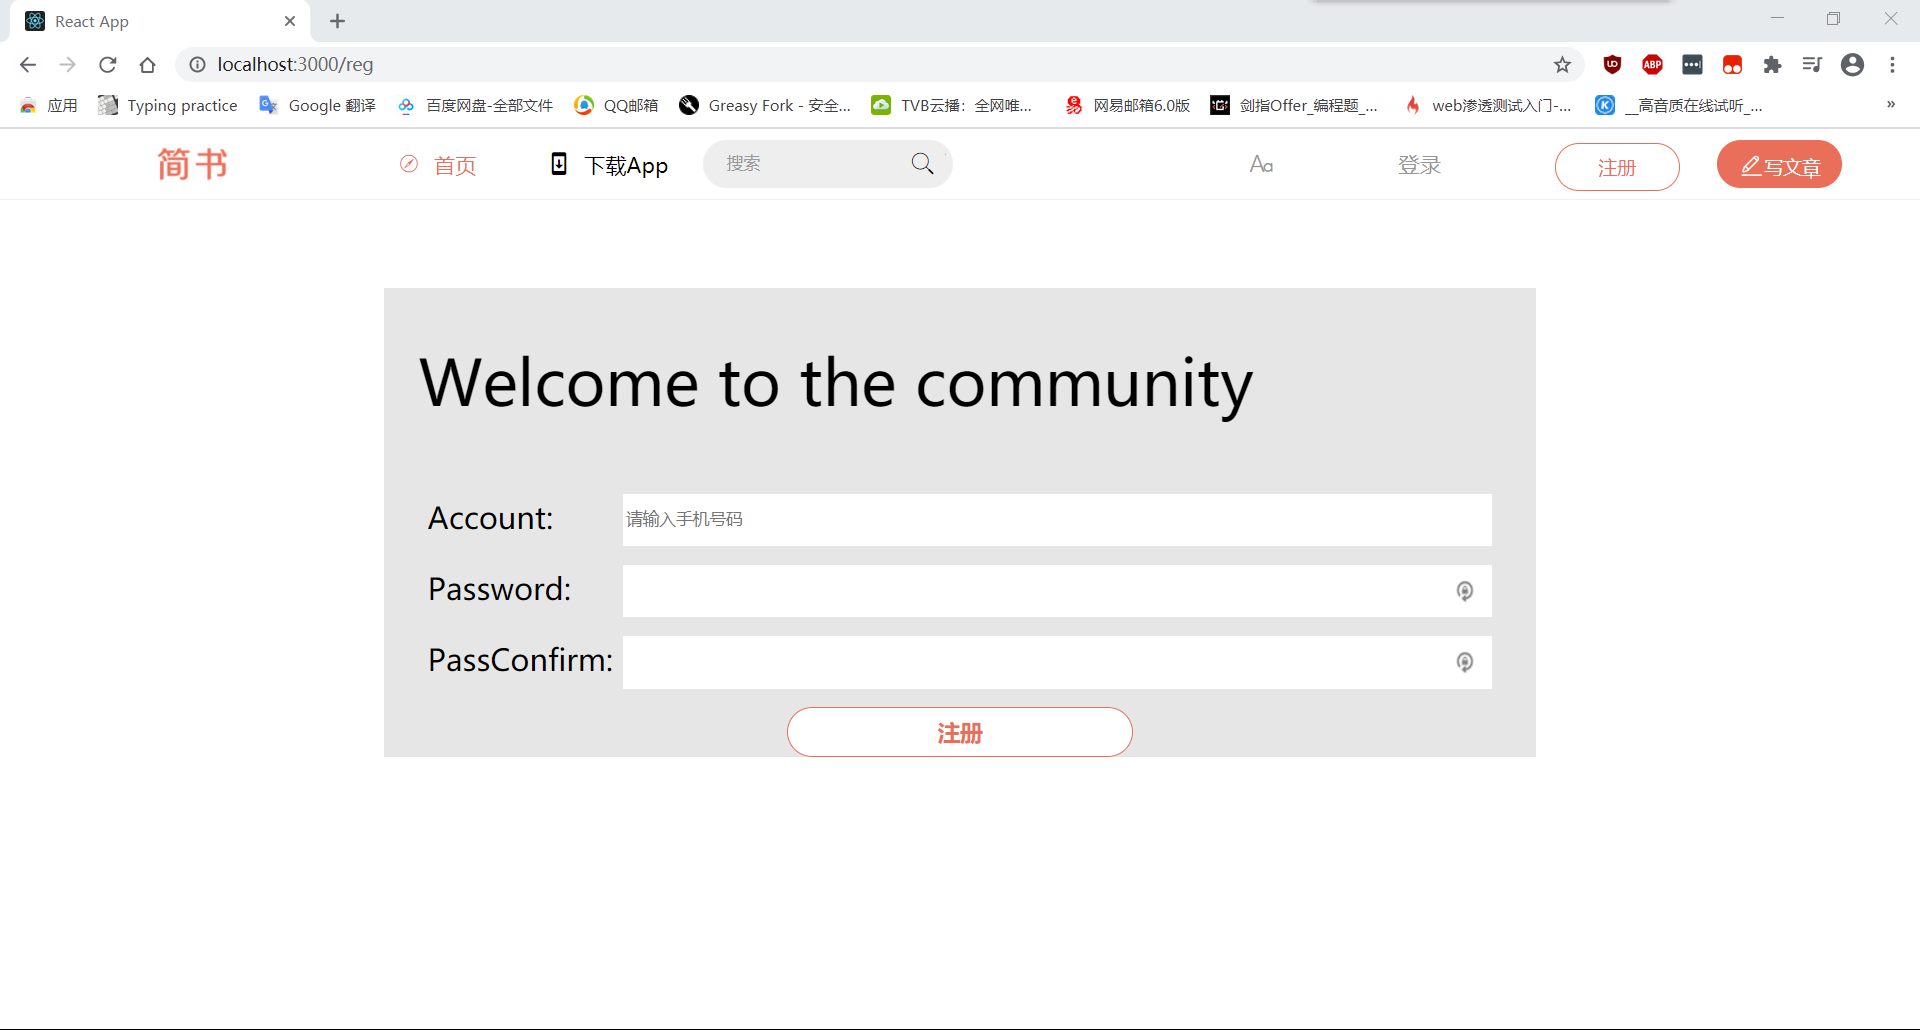
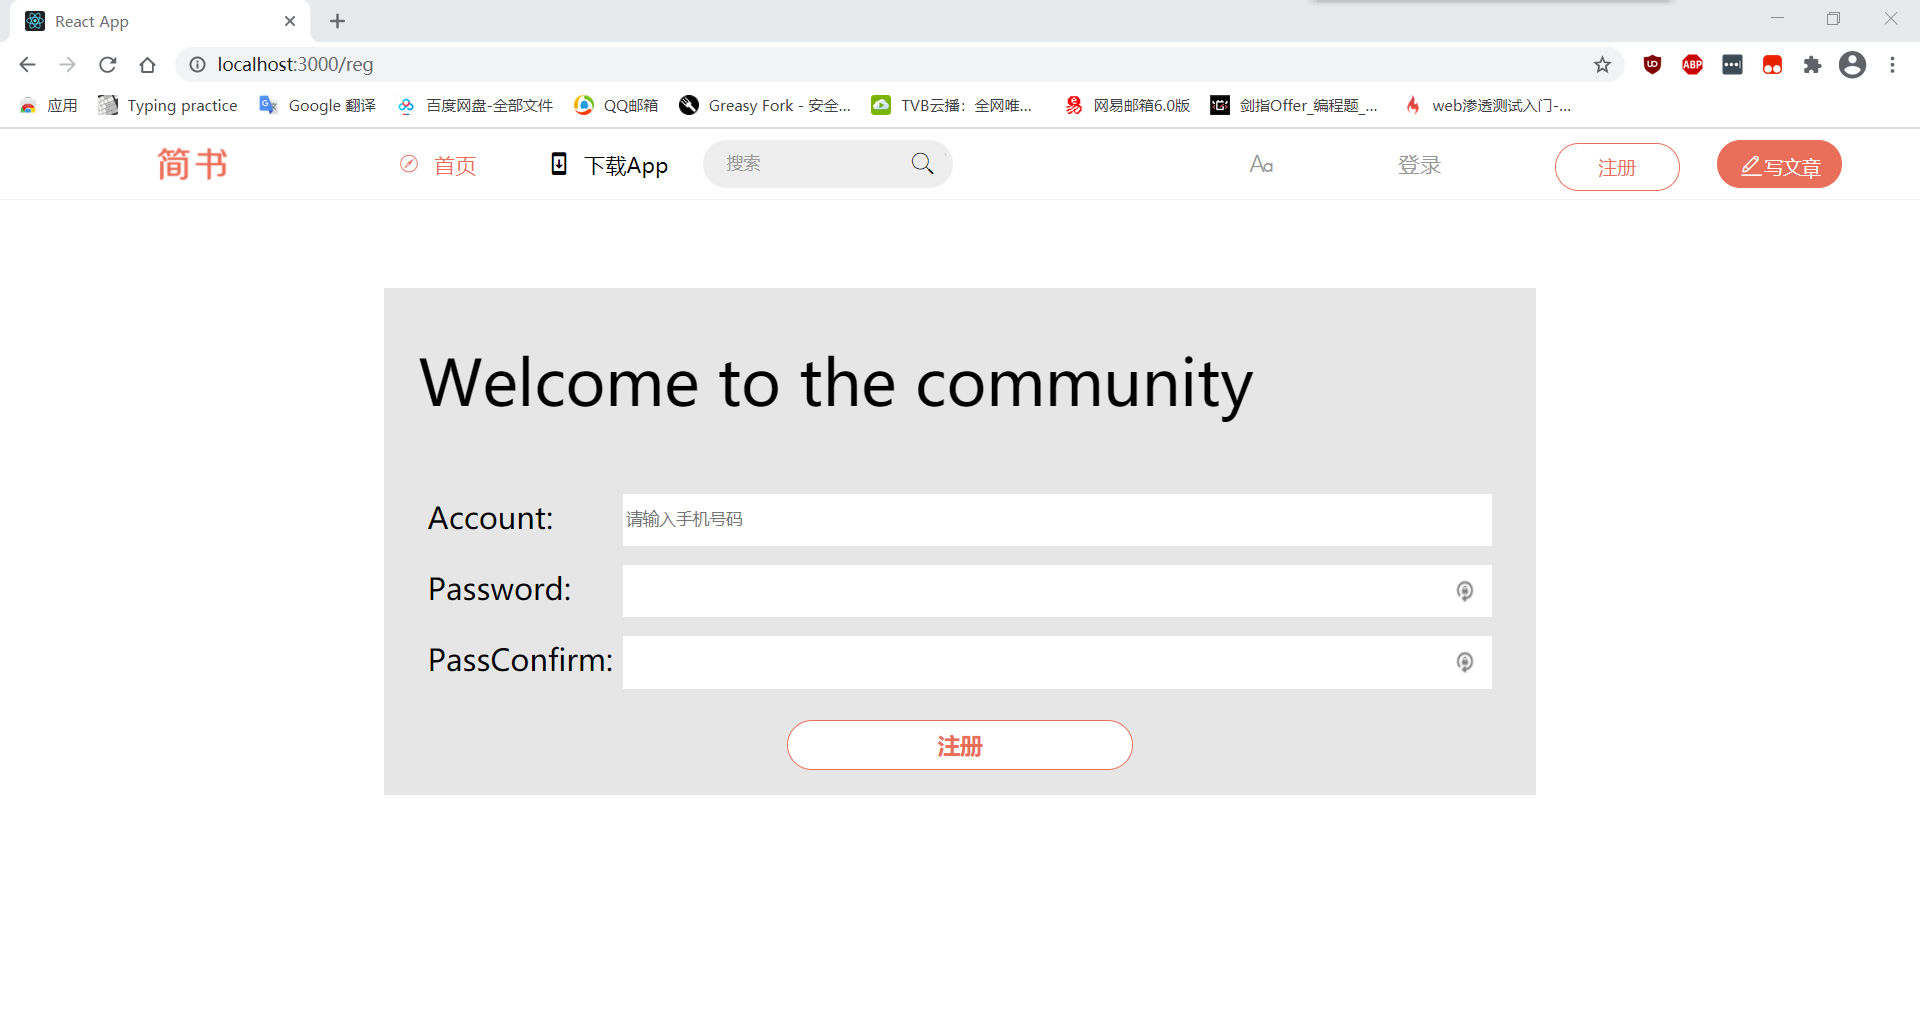
错误提示完善

Changed region(s): [[0.1875, 0.6835, 0.8125, 0.7767], [0.0, 0.9942, 1.0, 1.0], [0.8125, 0.0311, 0.9688, 0.1243]]

diff --git a/src/reg/Reg.jsx b/src/reg/Reg.jsx
@@ -7,12 +7,42 @@ import {
   RegLabel,
   RegInput,
   Button,
+  Tip,
 } from './style';
 
 class Reg extends React.Component {
+  constructor() {
+    super();
+    this.state = {
+      telFlag: true,
+      passFlag: true,
+      passConfirm: true,
+    };
+  }
+  blurHandler = () => {
+    if (this.tel.value.length !== 11) {
+      this.setState(() => ({
+        telFlag: false,
+      }));
+    }
+  };
+  passBlurHandler = () => {
+    if (this.password.value.length <= 6) {
+      this.setState(() => ({
+        passFlag: false,
+      }));
+    }
+  };
+  passConfirmBlurHandler = () => {
+    if (this.password.value !== this.passConfirm.value) {
+      this.setState(() => ({
+        passConfirm: false,
+      }));
+    }
+  };
   render() {
     const clickHandler = () => {
-      this.props.login();
+      console.log('reg');
     };
     return (
       <RegWrapper>
@@ -20,15 +50,46 @@ class Reg extends React.Component {
           <Title>Welcome to the community</Title>
           <FormItem>
             <RegLabel htmlFor="account">Account:</RegLabel>
-            <RegInput id="account" placeholder="请输入手机号码" />
+            <RegInput
+              id="account"
+              placeholder="请输入手机号码"
+              onBlur={this.blurHandler}
+              ref={(input) => {
+                this.tel = input;
+              }}
+              className={this.state.telFlag ? '' : 'error'}
+            />
+            <Tip className={!this.state.telFlag ? 'show' : 'hidden'}>
+              请输入正确的手机号码
+            </Tip>
           </FormItem>
           <FormItem>
             <RegLabel htmlFor="password">Password:</RegLabel>
-            <RegInput id="password" type="password" />
+            <RegInput
+              id="password"
+              type="password"
+              onBlur={this.passBlurHandler}
+              ref={(input) => {
+                this.password = input;
+              }}
+              className={this.state.passFlag ? '' : 'error'}
+            />
+            <Tip className={!this.state.passFlag ? 'show' : 'hidden'}>
+              密码长度不能少于6位
+            </Tip>
           </FormItem>
           <FormItem>
             <RegLabel htmlFor="password">PassConfirm:</RegLabel>
-            <RegInput id="password" type="password" />
+            <RegInput
+              id="password"
+              type="password"
+              onBlur={this.passConfirmBlurHandler}
+              ref={(input) => (this.passConfirm = input)}
+              className={this.state.passConfirm ? '' : 'error'}
+            />
+            <Tip className={!this.state.passConfirm ? 'show' : 'hidden'}>
+              两次密码不相同
+            </Tip>
           </FormItem>
           <Button onClick={clickHandler}>注册</Button>
         </RegForm>

diff --git a/src/login/Login.jsx b/src/login/Login.jsx
@@ -8,13 +8,29 @@ import {
   LoginLabel,
   LoginInput,
   Button,
+  Tip,
 } from './style';
 import { login } from '../store/action/login';
 
 class Login extends React.Component {
+  constructor() {
+    super();
+    this.state = {
+      telFlag: true,
+    };
+  }
   render() {
     const clickHandler = () => {
-      this.props.login();
+      if (this.state.telFlag) {
+        this.props.login();
+        const token = new Date() + this.tel.value;
+        localStorage.setItem('token', token);
+      }
+    };
+    const blurHandler = () => {
+      if (this.tel.value.length !== 11) {
+        this.setState(() => ({ telFlag: false }));
+      }
     };
     return (
       <LoginWrapper>
@@ -22,7 +38,18 @@ class Login extends React.Component {
           <Title>Login</Title>
           <FormItem>
             <LoginLabel htmlFor="account">Account:</LoginLabel>
-            <LoginInput id="account" placeholder="请输入手机号码" />
+            <LoginInput
+              id="account"
+              placeholder="请输入手机号码"
+              ref={(input) => {
+                this.tel = input;
+              }}
+              onBlur={blurHandler}
+              className={this.state.telFlag ? '' : 'error'}
+            />
+            <Tip className={!this.state.telFlag ? 'show' : 'hidden'}>
+              手机号码不合法
+            </Tip>
           </FormItem>
           <FormItem>
             <LoginLabel htmlFor="password">Password:</LoginLabel>

diff --git a/src/reg/style.js b/src/reg/style.js
@@ -3,6 +3,7 @@ import styled from 'styled-components';
 export const RegWrapper = styled.div`
   text-align: center;
   margin-top: 70px;
+  margin-bottom: 10px;
 `;
 
 export const RegForm = styled.div`
@@ -11,6 +12,7 @@ export const RegForm = styled.div`
   text-align: center;
   background: #e6e6e6;
   vertical-align: middle;
+  padding-bottom: 20px;
 `;
 
 export const Title = styled.div`
@@ -37,6 +39,9 @@ export const RegInput = styled.input`
   width: 75%;
   height: 40px;
   border: none;
+  &.error {
+    outline: 1px solid red;
+  }
   outline: none;
 `;
 
@@ -51,4 +56,21 @@ export const Button = styled.button`
   color: #ea6f5a;
   font-size: 18px;
   font-weight: bold;
+  margin-top: 10px;
+`;
+
+export const Tip = styled.div`
+  width: 80%;
+  margin-left: 21%;
+  height: 40px;
+  line-height: 40px;
+  text-align: left;
+  font-size: 18px;
+  color: red;
+  &.hidden {
+    display: none;
+  }
+  &.show {
+    display: block;
+  }
 `;

diff --git a/src/login/style.js b/src/login/style.js
@@ -38,7 +38,26 @@ export const LoginInput = styled.input`
   width: 80%;
   height: 40px;
   border: none;
+  &.error {
+    outline: 1px solid red;
+  }
   outline: none;
+`;
+
+export const Tip = styled.div`
+  width: 80%;
+  margin-left: 17%;
+  height: 40px;
+  line-height: 40px;
+  text-align: left;
+  font-size: 18px;
+  color: red;
+  &.hidden {
+    display: none;
+  }
+  &.show {
+    display: block;
+  }
 `;
 
 export const Button = styled.button`

diff --git a/src/index.js b/src/index.js
@@ -9,7 +9,6 @@ import rootReducer from './store/reducer/index';
 import { Provider } from 'react-redux';
 import { BrowserRouter as Router } from 'react-router-dom';
 import routes from './routes';
-import Header from './header/Header';
 
 const store = createStore(
   rootReducer,
